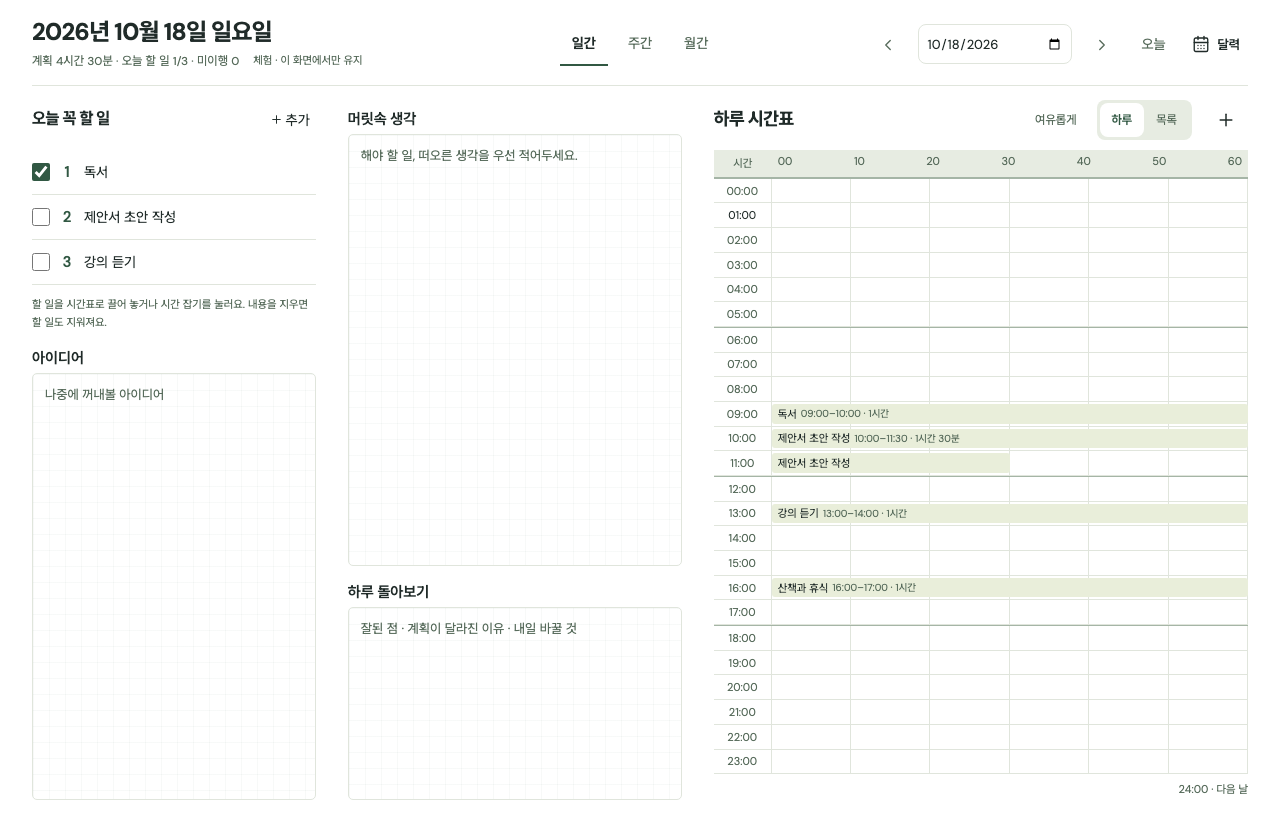
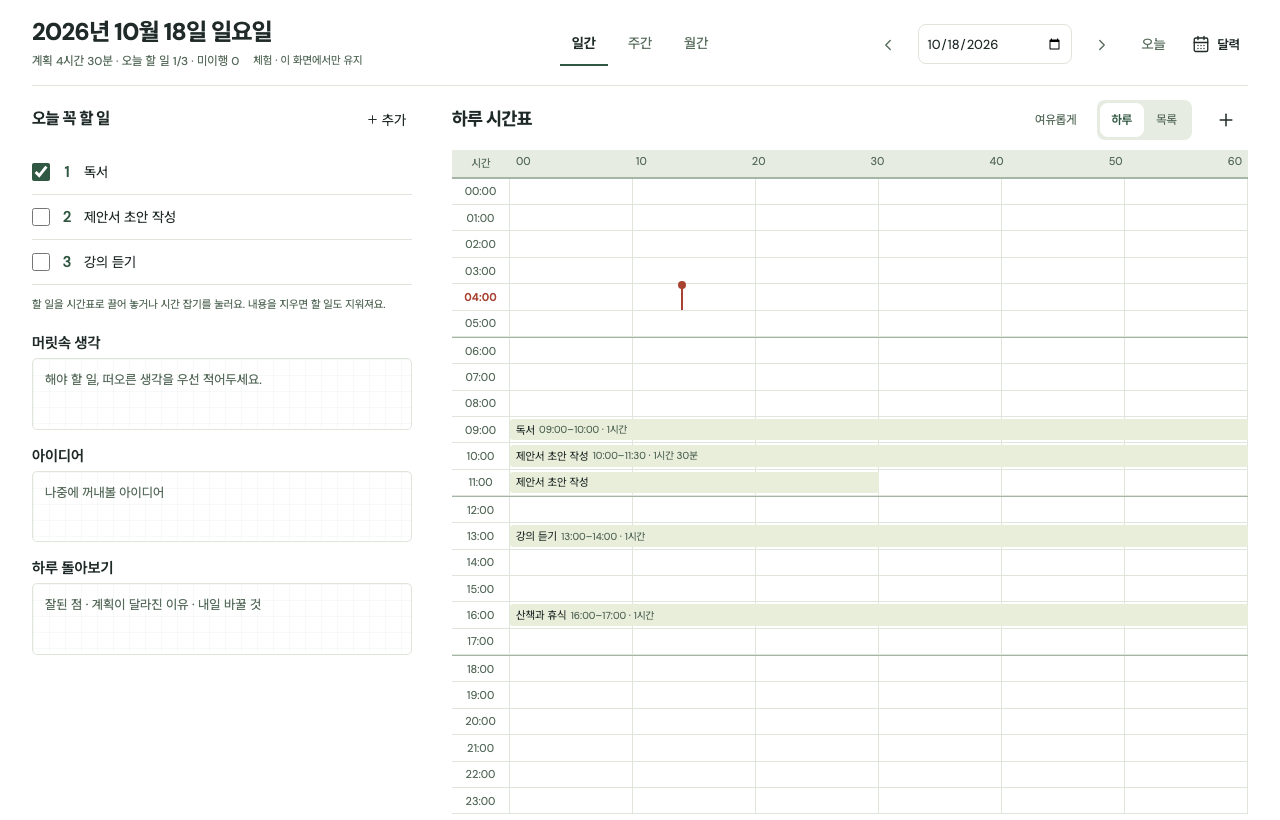
ux(planner): day view is two columns — 할 일 and notes on the left, a wider timetable
Notes grow with their text (field-sizing) instead of filling tall fixed
boxes. Guide screenshot recaptured from /demo.

diff --git a/apps/planner/src/journal/journal.css b/apps/planner/src/journal/journal.css
@@ -124,16 +124,13 @@
  .journal-page:not(.journal-preview) .journal-heading:has(>.planning-context) .journal-date{grid-row:3}
  .journal-page:not(.journal-preview) .journal-heading:has(>.planning-context) .journal-period-tabs{grid-row:4}
 }
-/* Wide screens: 오늘 꼭 할 일 then 아이디어 on the left, 머릿속 생각 then 하루 돌아보기 in the (wider) middle, timetable on the right.
-   The notes box dissolves so each note can take its own grid area. */
+/* Wide screens: 할 일 and the three notes share a fixed left column, the timetable takes the rest.
+   Notes grow with what is written (field-sizing), so empty ones stay short. */
 @media(min-width:1200px){
- .journal-workspace{grid-template-columns:minmax(260px,.85fr) minmax(300px,1fr) minmax(480px,1.6fr);grid-template-areas:"side think sched" "idea think sched" "idea review sched";grid-template-rows:minmax(0,max-content) minmax(120px,1fr) minmax(120px,1fr);column-gap:32px;row-gap:16px}
- .journal-notes{display:contents}
- .journal-notes>label:nth-child(1){grid-area:think;padding-top:11px}
- .journal-notes>label:nth-child(2){grid-area:idea}
- .journal-notes>label:nth-child(3){grid-area:review}
- .journal-overview .journal-notes label,.journal-overview .journal-notes label:first-child{min-height:0}
- .journal-notes>label{font-size:15px;font-weight:600}.journal-notes textarea{font-weight:400}
+ .journal-workspace{grid-template-columns:minmax(320px,380px) minmax(0,1fr);grid-template-rows:max-content 1fr;column-gap:40px}
+ .journal-workspace .journal-notes{display:flex;flex-direction:column;gap:16px;overflow:visible;align-self:start}
+ .journal-workspace .journal-notes label,.journal-workspace .journal-notes label:first-child{min-height:0;flex:none;font-size:15px;font-weight:600}
+ .journal-workspace .journal-notes textarea{field-sizing:content;min-height:5.5em;max-height:60vh;flex:none;resize:none;font-weight:400}
 }
 /* Phones: each group is one row that scrolls sideways. */
 @media(max-width:640px){.journal-page .planning-context{display:grid;gap:6px;margin-bottom:4px}.journal-page .planning-context>div,.journal-page .journal-routine-chips{flex-wrap:nowrap;overflow-x:auto;scrollbar-width:none}.planning-context>div>*,.journal-routine-chips>*{flex-shrink:0}.journal-routines{margin-left:0}.journal-routine-chips button,.planning-context-item{min-height:36px;white-space:nowrap}}

diff --git a/apps/planner/src/Guide.tsx b/apps/planner/src/Guide.tsx
@@ -7,7 +7,7 @@ export function Guide(){
   <a href="/">{pair('서비스 소개로','Back to home')}</a>
   <h1>{pair('사용 안내','How anotar works')}</h1>
   <p>{pair('anotar는 하루를 시간으로 계획하는 플래너예요. 생각을 비우고, 꼭 할 일을 고르고, 그 일을 시간표에 놓는 순서로 써요.','anotar is a planner for laying out your day in time. Empty your head, pick what must get done, and give it a place on the timetable.')}</p>
-  <figure><img src="/guide/day.png" alt={pair('일간 화면: 왼쪽 오늘 꼭 할 일, 가운데 머릿속 생각, 오른쪽 하루 시간표','Day view: priorities on the left, thoughts in the middle, timetable on the right')} width="1280" height="820" loading="lazy"/><figcaption>{pair('일간 화면 (체험용 예시)','Day view (demo data)')}</figcaption></figure>
+  <figure><img src="/guide/day.png" alt={pair('일간 화면: 왼쪽에 오늘 꼭 할 일과 메모, 오른쪽에 하루 시간표','Day view: priorities and notes on the left, timetable on the right')} width="1280" height="820" loading="lazy"/><figcaption>{pair('일간 화면 (체험용 예시)','Day view (demo data)')}</figcaption></figure>
 
   <h2>{pair('하루 쓰는 순서','A day, step by step')}</h2>
   <ol>

diff --git a/apps/planner/README.md b/apps/planner/README.md
@@ -101,6 +101,6 @@ Period diaries: Week is a seven-day plan/actual timetable, Month an activity cal
 
 **사용 안내** `/guide`(`src/Guide.tsx`, 그림 `public/guide/day.png`은 /demo 화면): 공개 페이지. 상단 메뉴·앱 헤더 `?`·푸터·빈 시간표 안내에서 연결. **기능을 바꾸면 이 페이지의 해당 문단도 같이 고친다.** 빈 날(일정·할 일·메모가 모두 빈 날)은 머릿속 생각 ①, 첫 할 일 ②, 시간표 ③ 안내가 흐리게 보인다.
 
-**일간 화면**: 넓은 화면은 3단(오늘 꼭 할 일·아이디어 | 머릿속 생각·하루 돌아보기 | 시간표). 상단 계획 줄의 이번 기간 칩을 누르면 카드(상위 목표·이번 주 시간표에 잡은 시간·시간표에 넣기)가 열린다. 할 일은 1–3번이 크게, 시간표에 들어간 할 일은 시작 시각을 보이고, 체크하면 연결된 블록이 흐려진다. 내용을 지우면 할 일이 지워진다(1–3번은 빈 칸으로 남음). 시간표 블록은 마우스로 끌어 옮기고 오른쪽 끝으로 길이를 바꾼다(10분 단위). 단축키: ←/→ 이전·다음, T 오늘, N 새 일정. 오늘을 볼 때 현재 시각 선이 보인다. 블록 완료 표시는 강제하지 않는다(완료는 할 일 체크로).
+**일간 화면**: 넓은 화면은 2단(왼쪽 380px: 오늘 꼭 할 일 → 머릿속 생각·아이디어·하루 돌아보기, 메모는 쓴 만큼 늘어남 | 시간표). 상단 계획 줄의 이번 기간 칩을 누르면 카드(상위 목표·이번 주 시간표에 잡은 시간·시간표에 넣기)가 열린다. 할 일은 1–3번이 크게, 시간표에 들어간 할 일은 시작 시각을 보이고, 체크하면 연결된 블록이 흐려진다. 내용을 지우면 할 일이 지워진다(1–3번은 빈 칸으로 남음). 시간표 블록은 마우스로 끌어 옮기고 오른쪽 끝으로 길이를 바꾼다(10분 단위). 단축키: ←/→ 이전·다음, T 오늘, N 새 일정. 오늘을 볼 때 현재 시각 선이 보인다. 블록 완료 표시는 강제하지 않는다(완료는 할 일 체크로).
 
 **루틴**: 이름만 있는 저장 목록이다(`/api/planning`의 `kind:'routine'`, 계정당 50개). 계획의 ‘루틴’ 탭에서 만들고·이름 바꾸고·지운다. 일간 화면 상단 계획 줄(왼쪽 이번 기간 목표·세부 계획, 오른쪽 루틴)의 루틴 칩(또는 할 일의 시간 잡기)을 누르면 30분 활동 창이 열리고(오늘이면 지금 이후 첫 빈 30분, 다른 날은 09:00)(PC는 시간표로 끌어 놓기도 됨), 저장하면 그날만의 일반 활동이 된다. 반복 규칙·자동 배치·횟수 목표는 없다. 루틴을 지워도 이미 넣은 활동은 남는다. 최신 인계 문서에서 실제 실행 여부를 확인한다.
